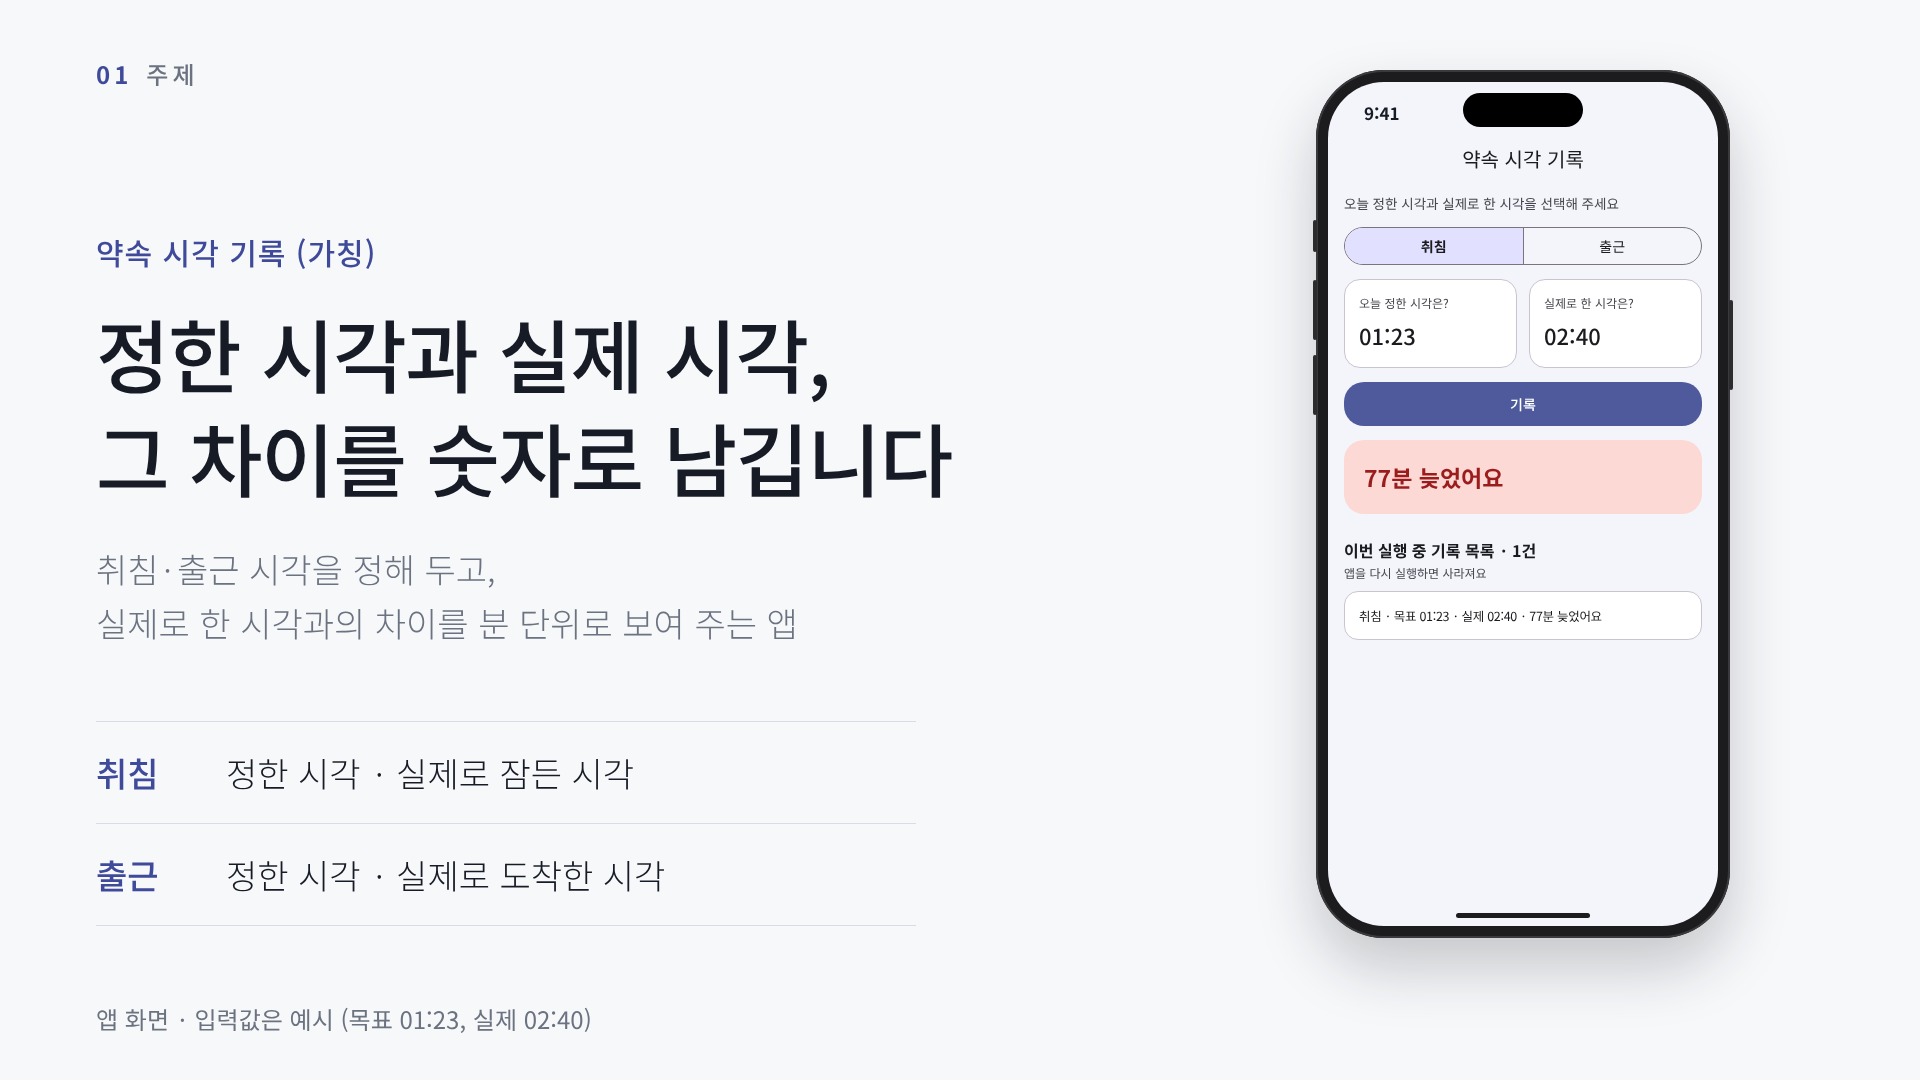
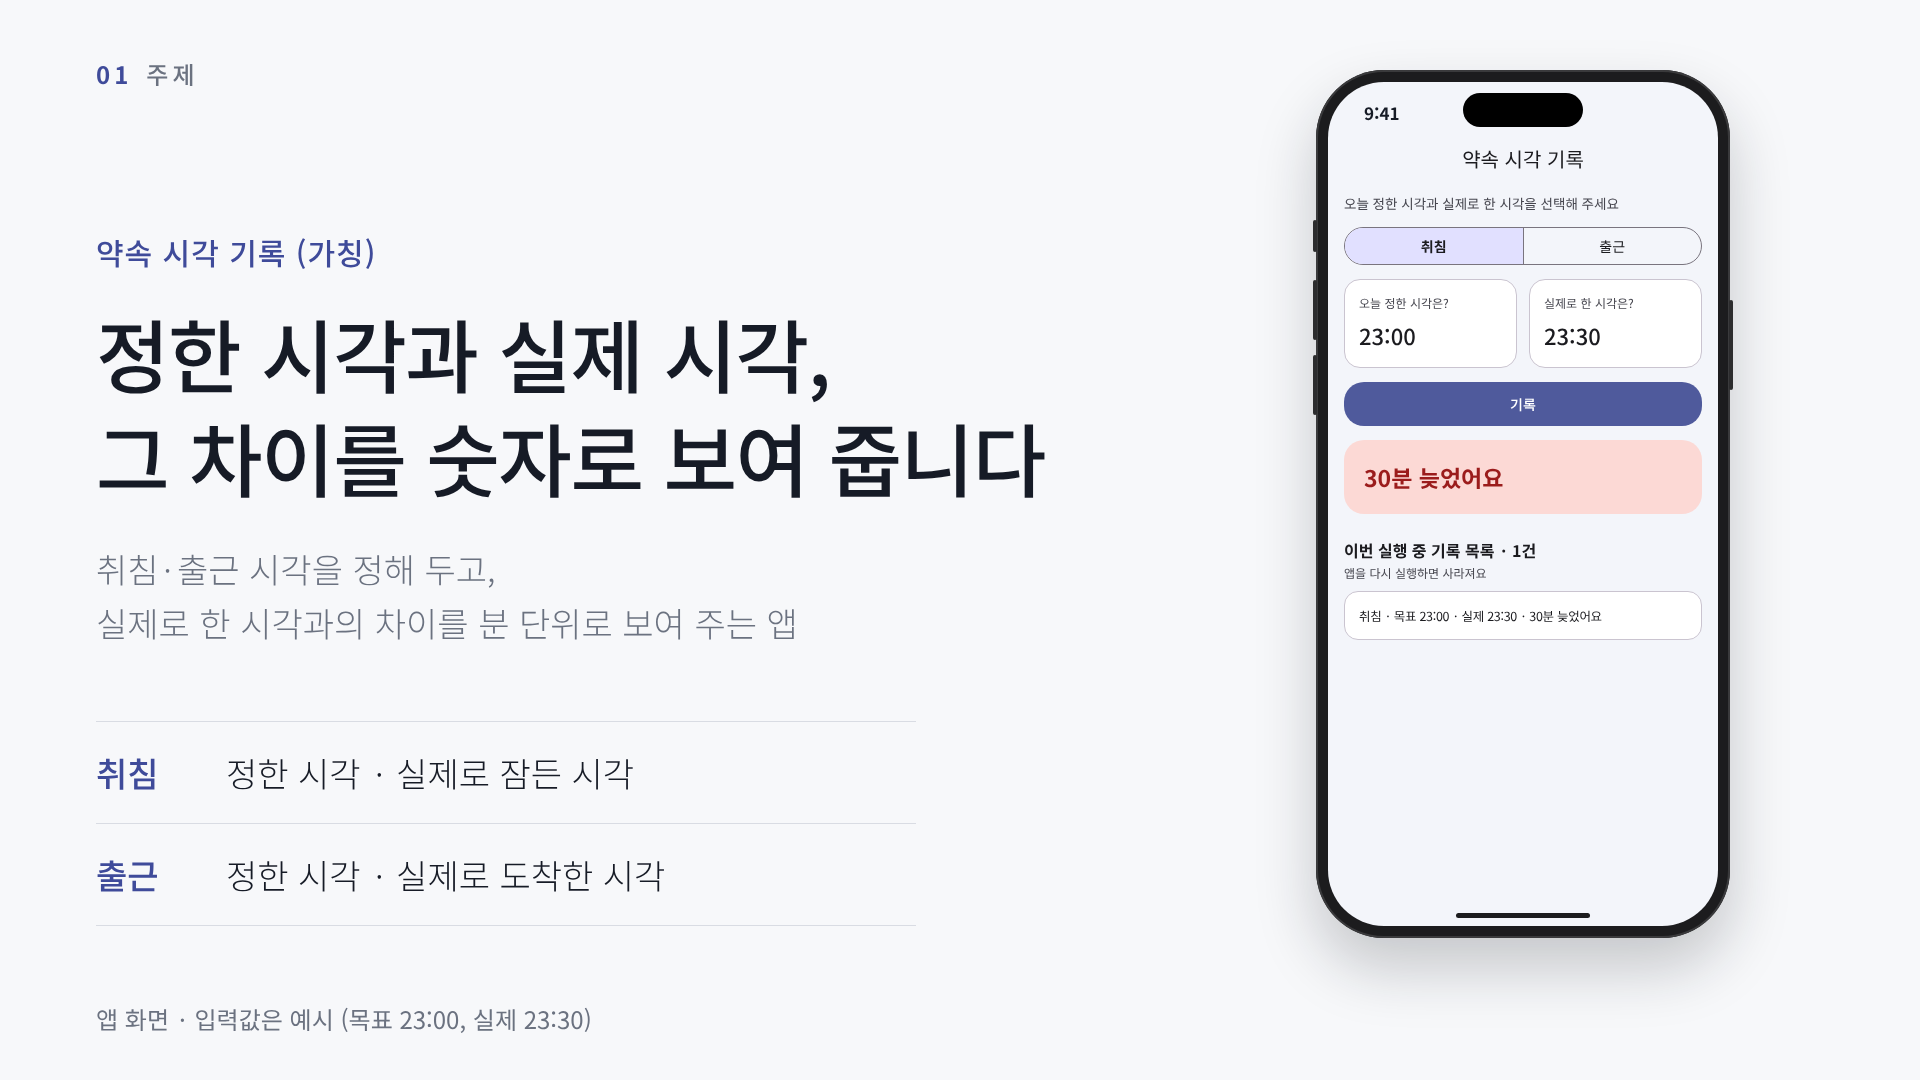
docs: 예시 시각을 알기 쉬운 값으로 변경, 현재 구현 기준 문구로 정리
Claude-Session: https://claude.ai/code/session_01P1GBHLbgts9XqSkhaJYGHU

Changed region(s): [[0.3438, 0.3972, 0.5625, 0.4583], [0.7188, 0.3056, 0.75, 0.3361]]

diff --git a/promise_time/docs/presentation/slide3.html b/promise_time/docs/presentation/slide3.html
@@ -5,7 +5,7 @@ h1{position:absolute;left:96px;top:104px;font-size:54px;white-space:nowrap}h1 em
 .cap b{font-size:26px;color:var(--accent);font-weight:500;letter-spacing:2px}.cap span{font-size:32px;font-weight:500}
 </style></head><body>
 <div class=sec><b>03</b>핵심가치</div>
-<h1>느낌이 아니라 <em>숫자</em>로 확인하고, 기록으로 남깁니다</h1>
+<h1>느낌이 아니라 <em>숫자</em>로 확인하고, 기록으로 쌓입니다</h1>
 <div class=cols>
 <div><div class=cap><b>01</b><span>시각 두 개 선택</span></div><div id=a></div></div>
 <div><div class=cap><b>02</b><span>차이를 바로 확인</span></div><div id=b></div></div>
@@ -13,8 +13,8 @@ h1{position:absolute;left:96px;top:104px;font-size:54px;white-space:nowrap}h1 em
 <script>
 const S=0.8;
 document.getElementById('a').innerHTML=frame(appScreen({kind:'취침'}),S);
-document.getElementById('b').innerHTML=frame(appScreen({kind:'취침',target:'01:23',actual:'02:40',result:'77분 늦었어요',rows:['취침 · 목표 01:23 · 실제 02:40 · 77분 늦었어요']}),S);
-document.getElementById('c').innerHTML=frame(appScreen({kind:'출근',target:'17:00',actual:'17:03',result:'3분 늦었어요',rows:['출근 · 목표 17:00 · 실제 17:03 · 3분 늦었어요','출근 · 목표 17:00 · 실제 17:00 · 목표 시각에 맞췄어요','취침 · 목표 01:23 · 실제 23:40 · 103분 일찍 했어요','취침 · 목표 01:23 · 실제 02:40 · 77분 늦었어요']}),S);
+document.getElementById('b').innerHTML=frame(appScreen({kind:'취침',target:'23:00',actual:'23:30',result:'30분 늦었어요',rows:['취침 · 목표 23:00 · 실제 23:30 · 30분 늦었어요']}),S);
+document.getElementById('c').innerHTML=frame(appScreen({kind:'출근',target:'09:00',actual:'09:05',result:'5분 늦었어요',rows:['출근 · 목표 09:00 · 실제 09:05 · 5분 늦었어요','출근 · 목표 09:00 · 실제 09:00 · 목표 시각에 맞췄어요','취침 · 목표 23:00 · 실제 22:30 · 30분 일찍 했어요','취침 · 목표 23:00 · 실제 23:30 · 30분 늦었어요']}),S);
 </script>
 <div class=foot>앱 화면 · 입력값은 예시 · 현재는 앱을 다시 실행하면 기록이 사라집니다</div>
 </body></html>

diff --git a/promise_time/docs/presentation/slide1.html b/promise_time/docs/presentation/slide1.html
@@ -10,11 +10,11 @@ h1{font-size:80px;margin-top:26px}
 </style></head><body>
 <div class=sec><b>01</b>주제</div>
 <div class=l><div class=name>약속 시각 기록 (가칭)</div>
-<h1>정한 시각과 실제 시각,<br>그 차이를 숫자로 남깁니다</h1>
+<h1>정한 시각과 실제 시각,<br>그 차이를 숫자로 보여 줍니다</h1>
 <div class=sub>취침·출근 시각을 정해 두고,<br>실제로 한 시각과의 차이를 분 단위로 보여 주는 앱</div>
 <div class=list><div class=it><b>취침</b><span>정한 시각  ·  실제로 잠든 시각</span></div>
 <div class=it><b>출근</b><span>정한 시각  ·  실제로 도착한 시각</span></div></div></div>
 <div id=p></div>
-<script>document.getElementById('p').innerHTML=frame(appScreen({kind:'취침',target:'01:23',actual:'02:40',result:'77분 늦었어요',rows:['취침 · 목표 01:23 · 실제 02:40 · 77분 늦었어요']}),1.0);</script>
-<div class=foot>앱 화면 · 입력값은 예시 (목표 01:23, 실제 02:40)</div>
+<script>document.getElementById('p').innerHTML=frame(appScreen({kind:'취침',target:'23:00',actual:'23:30',result:'30분 늦었어요',rows:['취침 · 목표 23:00 · 실제 23:30 · 30분 늦었어요']}),1.0);</script>
+<div class=foot>앱 화면 · 입력값은 예시 (목표 23:00, 실제 23:30)</div>
 </body></html>

diff --git a/promise_time/docs/presentation/script.md b/promise_time/docs/presentation/script.md
@@ -8,7 +8,7 @@
 
 제가 만든 앱은 **'약속 시각 기록'**이라는 가칭의 앱입니다.
 취침이나 출근 시각을 정해 두고, 실제로 한 시각과의 **차이를 분 단위 숫자로** 보여 줍니다.
-화면을 보시면, 정한 시각 01:23과 실제 시각 02:40을 고르고 기록을 누르면 **"77분 늦었어요"**라고 바로 나옵니다.
+화면을 보시면, 정한 시각 23:00과 실제 시각 23:30을 고르고 기록을 누르면 **"30분 늦었어요"**라고 바로 나옵니다. (시각은 예시입니다.)
 
 ## 장표 2 · 문제 (약 40초)
 이 앱은 제 경험에서 시작했습니다.
@@ -21,11 +21,11 @@
 (알람 화면은 예시 화면입니다.)
 
 ## 장표 3 · 핵심가치 (약 50초)
-핵심 가치는 **느낌이 아니라 숫자로 확인하고, 기록으로 남기는 것**입니다.
+핵심 가치는 **느낌이 아니라 숫자로 확인하고, 기록이 쌓이는 것**입니다.
 
 첫 번째 화면에서는 정한 시각과 실제 시각, 두 개만 고릅니다.
 두 번째 화면에서는 기록을 누르면 차이가 한 문장으로 바로 나옵니다.
-세 번째 화면에서는 기록이 최신순으로 쌓여서 4건을 한눈에 볼 수 있습니다.
+세 번째 화면에서는 기록이 최신순으로 쌓여서 4건을 한눈에 볼 수 있습니다. (출근·취침 모두 예시 시각입니다.)
 
 지금 구현된 것은 여기까지이고, 앱을 다시 실행하면 기록은 사라집니다.
 또 이 앱으로 습관이 실제로 고쳐지는지는 아직 확인하지 못했습니다.
@@ -36,7 +36,7 @@
 | 질문 | 답 |
 |---|---|
 | 알람 앱·아이폰 수면 앱과 뭐가 다른가요? | 아이폰 수면 앱은 **평소 평균**과 비교하고, 이 앱은 **제가 정한 약속 시각**과 비교합니다. 출근 같은 약속도 기록합니다. (더 낫다는 말은 하지 않기) |
-| 저장되나요? | 아직 안 됩니다. 지금은 차이를 숫자로 만드는 핵심 동작을 먼저 만든 단계입니다. |
+| 저장되나요? | 아직 안 됩니다. 지금은 차이를 숫자로 보여 주는 동작까지 만든 상태입니다. |
 | 12시간 넘게 차이 나면요? | 날짜를 입력하지 않아 가까운 방향으로 계산합니다. 현재 한계입니다. |
 | 사용자 조사는 했나요? | 아니요, 제 경험입니다. |
 | 실제로 실행해 봤나요? | 네, 아이폰과 Chrome에서 실행했습니다. 장표 화면은 아이콘 없이 다시 그린 예시 화면입니다. |
